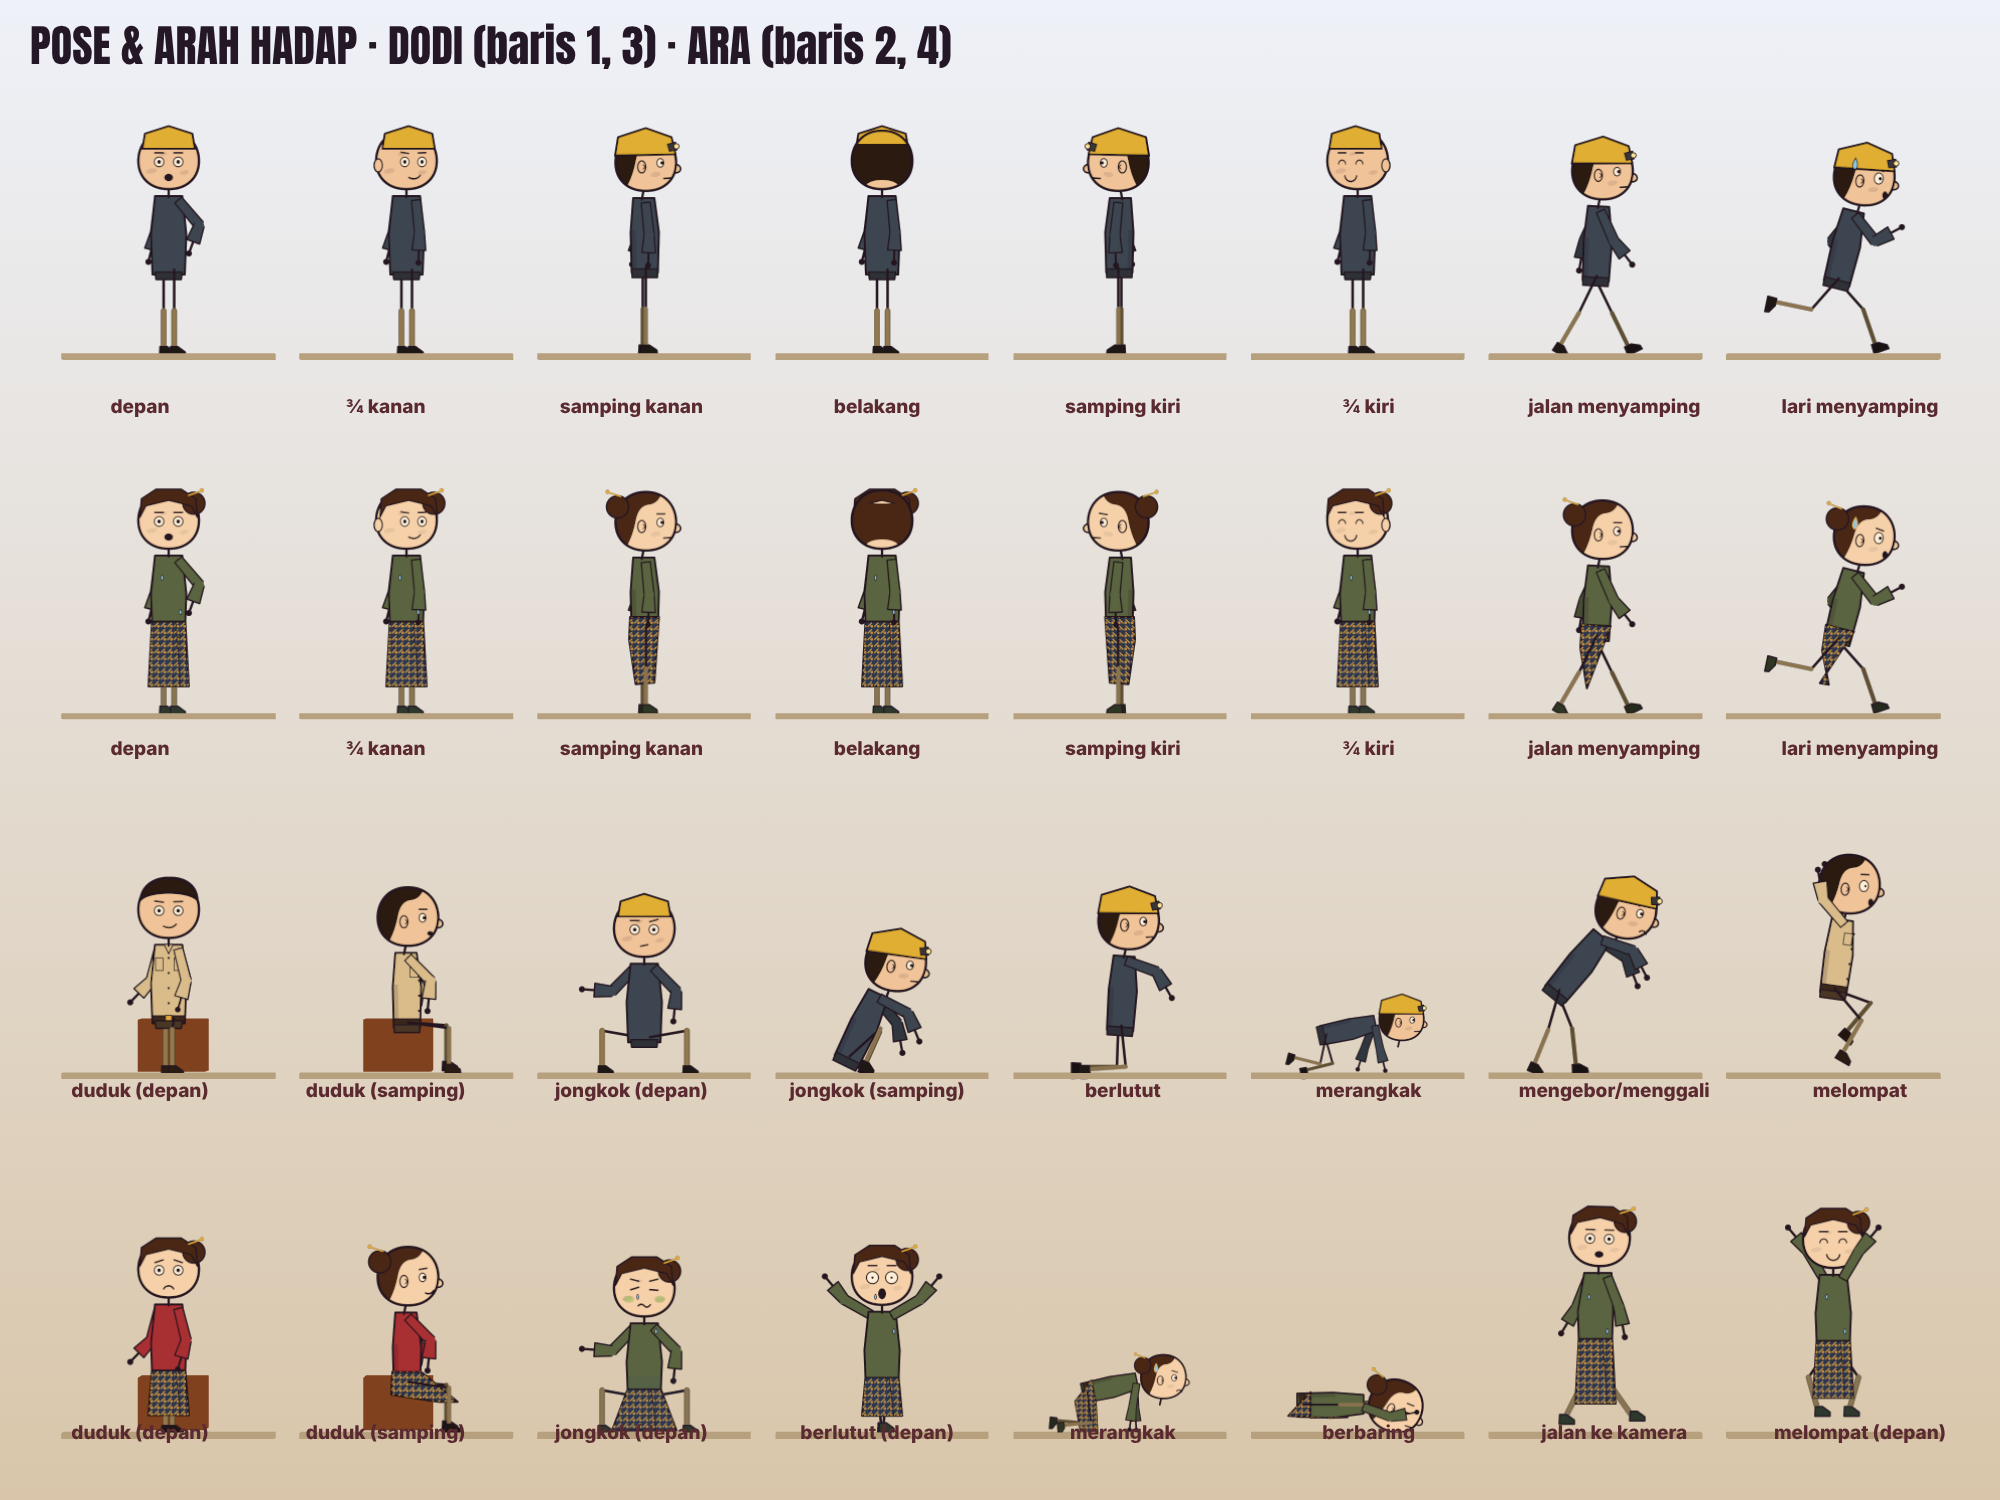
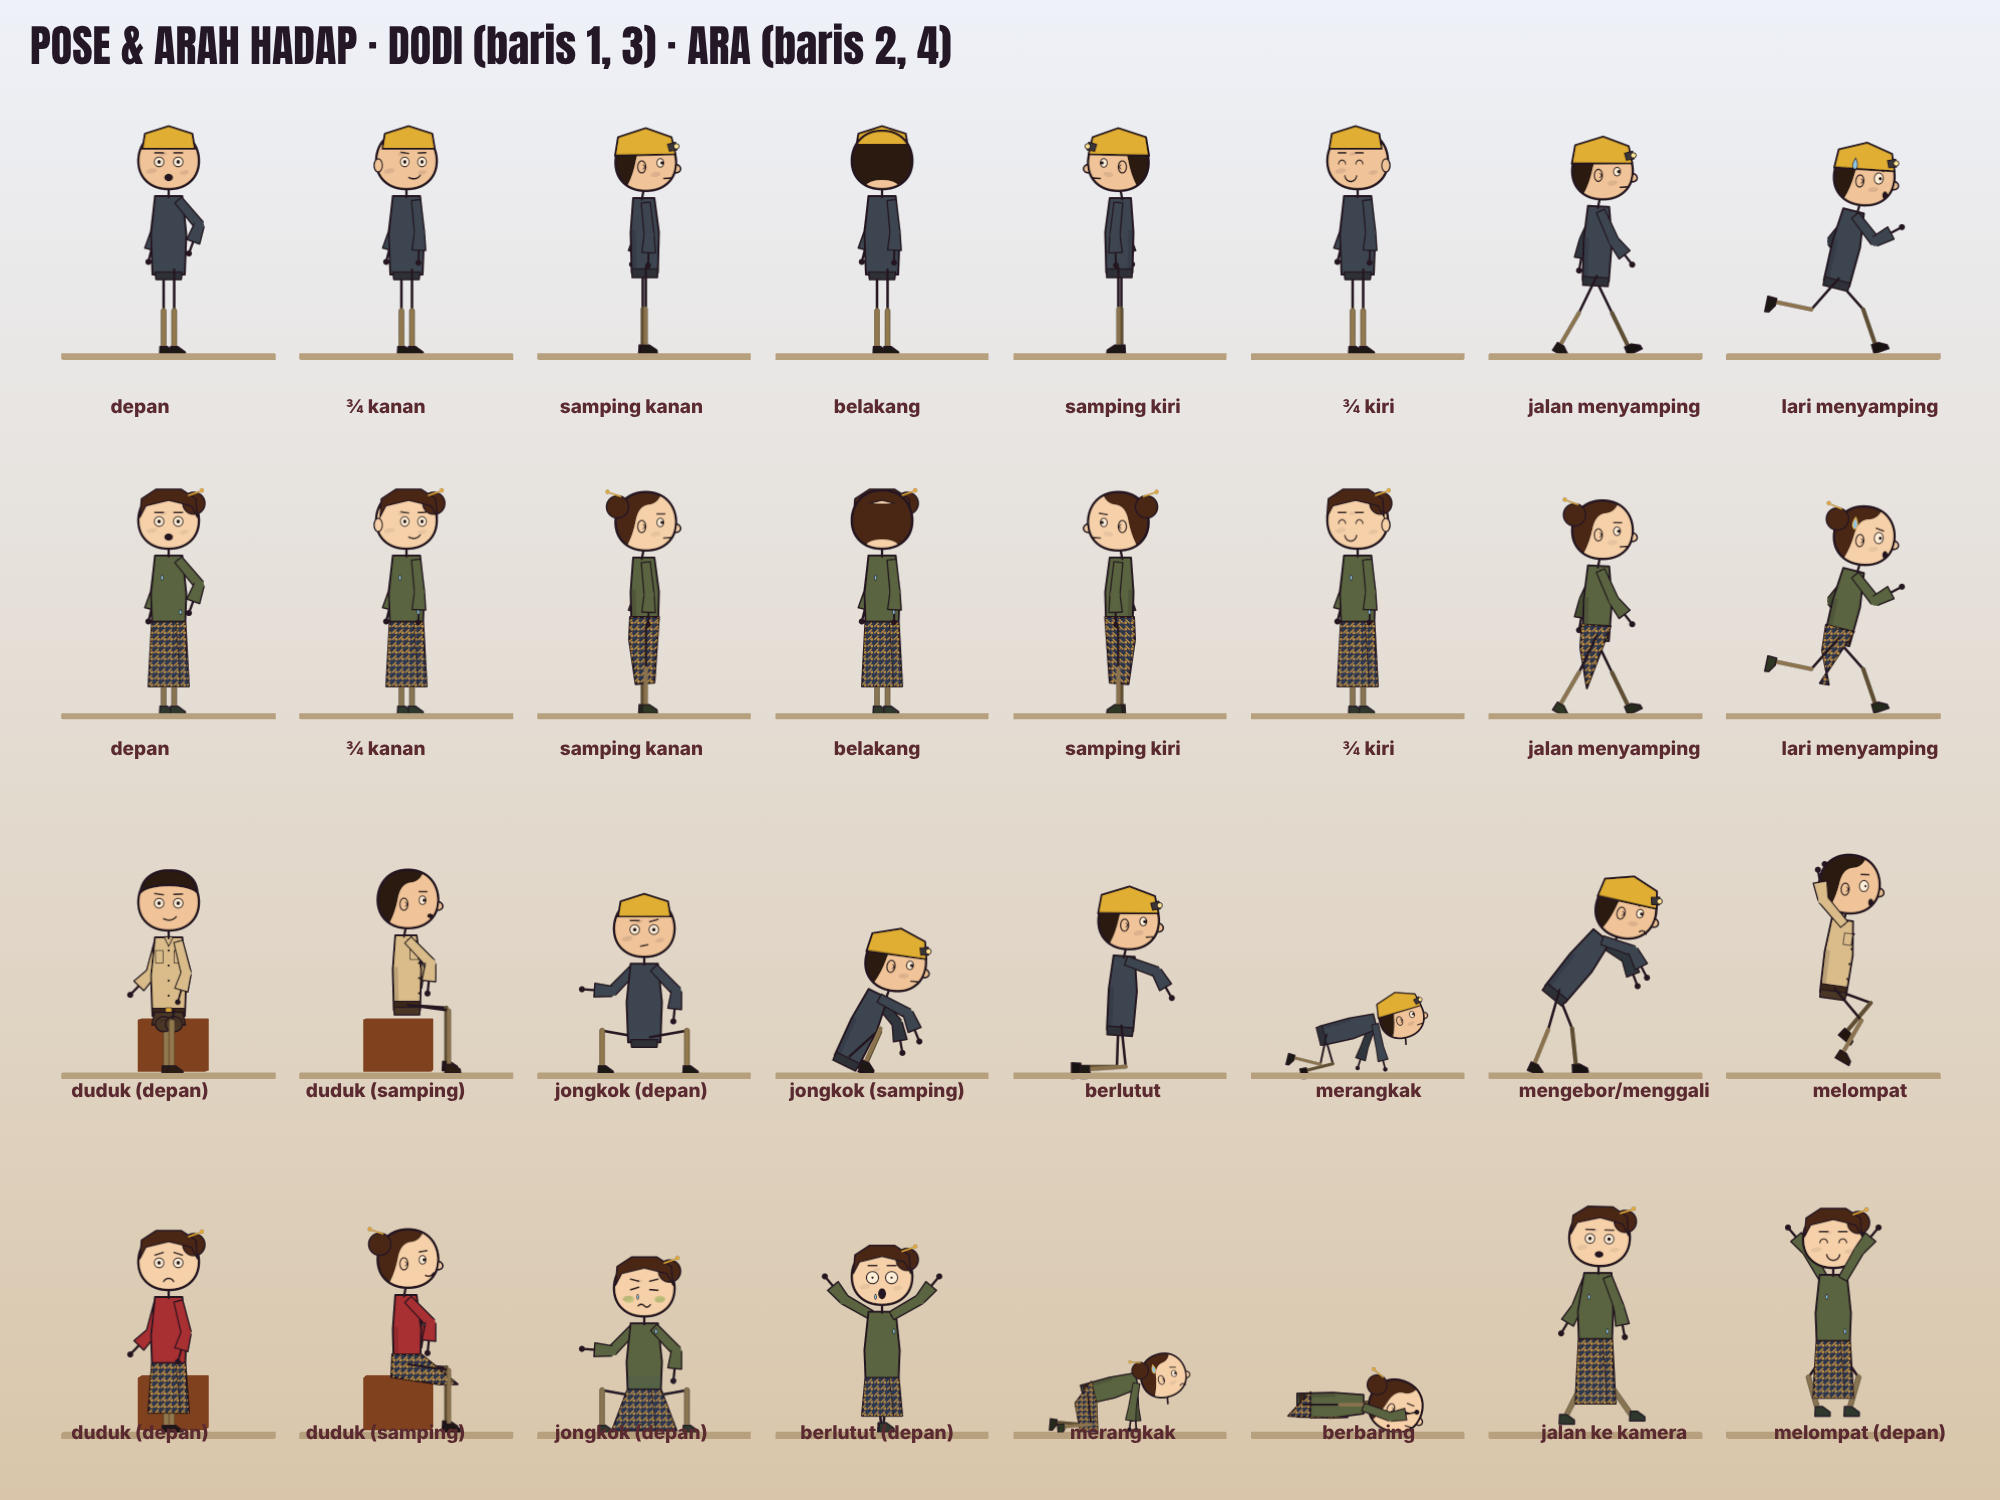
Perbaiki duduk (tinggi pinggul = dudukan, pangkuan+lutut tampak depan, kartu di depan kursi) dan merangkak (kepala tak tertutup tiang, menatap ke depan)
Claude-Session: https://claude.ai/code/session_01GCndATkCWSeS7Px9SzwdRB

diff --git a/src/PratinjauTerowongan.tsx b/src/PratinjauTerowongan.tsx
@@ -12,7 +12,7 @@ type Lat = keyof typeof OX;
 const NODE: Record<Lat, string> = { L1: "L1_Jalan", L2: "L2_Studio", L3: "L3_Got", L4: "L4_Penampang", L5: "L5_Brankas", L6: "L6_Hakim" };
 const bl = (x: number, y: number, z: number, ox = 0): Vec3 => [ox + x, z, -y];
 
-type Tok = { p: BeanParams; at: [number, number, number]; h?: number; flip?: boolean };
+type Tok = { p: BeanParams; at: [number, number, number]; h?: number; flip?: boolean; toCam?: number }; // toCam: geser kartu ke arah kamera (m), mis. agar duduk DI DEPAN sandaran/dudukan kursi
 type View = { judul: string; lat: Lat; cam: [number, number, number]; look: [number, number, number]; fov: number; roll?: number; preset: keyof typeof LIGHT_PRESETS; pts?: [number, number, number, number][]; tok: Tok[]; fg?: "bars" | "post" | "edge"; fgSide?: 1 | -1; interior?: boolean;
   gaya?: CineLook; shafts?: { a: [number, number, number]; b: [number, number, number]; r0?: number; r1?: number; col?: string; s?: number }[]; dust?: { c: [number, number, number]; sz: [number, number, number] } };
 const LUAR: CineLook = { exposure: 1.1, env: 0.6, ao: 2.5, aoRadius: 1.6, bloom: 0.45 };
@@ -31,20 +31,20 @@ const VIEWS: View[] = [
   { judul: "L2 · Studio foto (akrab)", lat: "L2", cam: [2.3, -2.6, 1.6], look: [-0.1, 1.8, 1.2], fov: 50, roll: -2, preset: "akrab", interior: true, fg: "edge",
     pts: [[1.2, 2.0, 1.25, 10], [0.2, 0.8, 2.3, 10]],
     gaya: DALAM, shafts: [{ a: [-3.5, 0.2, 1.9], b: [-1.2, 0.9, 0], r0: 0.55, r1: 1.0, s: 0.2 }], dust: { c: [-2.2, 0.5, 1.2], sz: [2.2, 2.4, 1.8] },
-    tok: [{ p: { ...FOTOGRAFER, ...poseSit(), expr: "smug", armR: [70, -50] }, at: [0.2, 1.2, 0] }, { p: { ...MIMI, expr: "shock", sweat: true, turn: 0.5 }, at: [-0.55, 0.1, 0] }] },
+    tok: [{ p: { ...FOTOGRAFER, ...poseSit(), expr: "smug", armR: [70, -50] }, at: [0.2, 1.2, 0], toCam: 0.3 }, { p: { ...MIMI, expr: "shock", sweat: true, turn: 0.5 }, at: [-0.55, 0.1, 0] }] },
   { judul: "L3 · Got (malam, lentera)", lat: "L3", cam: [0.5, -4.6, 1.4], look: [-0.1, 10, 0.9], fov: 50, roll: 3, preset: "malam", interior: true,
     pts: [[1.3, 1.6, 1.3, 14], [-1.4, 2, 2.5, 6], [-1.4, 8, 2.5, 6], [-1.4, 14, 2.5, 6], [0.9, 0, 4, 12]],
     gaya: MALAM, shafts: [{ a: [0.9, 0, 6.2], b: [0.9, 0, -0.4], r0: 0.38, r1: 0.75, col: "#e8f0ff", s: 0.16 }], dust: { c: [0.9, 0, 2.2], sz: [1.4, 4.0, 1.4] },
     tok: [{ p: { ...MIMI_GOT, ...beanWalk(0.2), back: true, hair: "#4a2a1a", prop: "torch", armR: [40, -70] }, at: [1.3, 2.4, 0] }, { p: { ...FOTOGRAFER_GALI, ...beanWalk(0.7), back: true, hair: "#2a1c14" }, at: [1.25, 6.0, 0] }] },
-  { judul: "L4 · Penampang: jalan → got → terowongan", lat: "L4", cam: [-5.0, -19.5, -1.6], look: [-5.0, 0, -2.6], fov: 46, preset: "siang",
+  { judul: "L4 · Penampang: jalan → got → terowongan", lat: "L4", cam: [-4.6, -19.5, -1.6], look: [-4.6, 0, -2.6], fov: 46, preset: "siang",
     pts: [[-8, -1.3, -4.6, 6], [-3.5, -1.2, -4.5, 5], [0, -1.2, -4.5, 5]],
     gaya: LUAR,
-    tok: [{ p: { ...FOTOGRAFER_GALI, ...poseCrawl(4), expr: "neutral" }, at: [-1.0, -1.3, -5.42], h: 1.9 }, { p: { ...MIMI_GOT, ...poseCrawl(12), expr: "worried", sweat: true }, at: [-4.0, -1.3, -5.42], h: 1.9, flip: true },
+    tok: [{ p: { ...FOTOGRAFER_GALI, ...poseCrawl(4), expr: "neutral" }, at: [-1.6, -1.88, -5.42], h: 1.9 }, { p: { ...MIMI_GOT, ...poseCrawl(12), expr: "worried", sweat: true }, at: [-4.3, -1.88, -5.42], h: 1.9, flip: true },
       { p: { ...KOMPLOTAN, ...poseCrouch(true), expr: "neutral", prop: "bucket", propHand: "R" }, at: [-7.4, -1.3, -5.42], h: 1.9 }, { p: { ...POLISI, ...poseWalkSide(6), expr: "neutral" }, at: [-10.5, -1.4, 0.24], h: 1.9 }] },
   { judul: "L4 · Penampang: terowongan → brankas", lat: "L4", cam: [4.8, -19.5, -1.6], look: [4.8, 0, -2.6], fov: 46, preset: "siang",
     pts: [[7.4, -1.2, -3.2, 8], [1.5, -1.2, -4.5, 5]],
     gaya: LUAR,
-    tok: [{ p: { ...FOTOGRAFER_GALI, ...poseKneel(), expr: "smug", armL: [-150, 0], armR: [150, 0] }, at: [6.4, -1.0, -5.66], h: 1.9 }, { p: { ...MIMI_GOT, expr: "shock", sweat: true, turn: -0.4 }, at: [8.4, -1.2, -5.66], h: 1.9 }, { p: { ...KOMPLOTAN, ...poseCrawl(9), expr: "neutral" }, at: [1.4, -1.3, -5.42], h: 1.9 }] },
+    tok: [{ p: { ...FOTOGRAFER_GALI, ...poseKneel(), expr: "smug", armL: [-150, 0], armR: [150, 0] }, at: [6.4, -1.0, -5.66], h: 1.9 }, { p: { ...MIMI_GOT, expr: "shock", sweat: true, turn: -0.4 }, at: [8.4, -1.2, -5.66], h: 1.9 }, { p: { ...KOMPLOTAN, ...poseCrawl(9), expr: "neutral" }, at: [1.4, -1.88, -5.42], h: 1.9 }] },
   { judul: "L5 · Brankas lebar", lat: "L5", cam: [2.4, -4.4, 1.9], look: [-0.6, 2.8, 1.3], fov: 56, roll: -3, preset: "tegang", interior: true, fg: "post", fgSide: 1,
     pts: [[-2.5, 0.5, 3.2, 12], [2.5, 0.5, 3.2, 12], [2.5, 0.9, 1.6, 10]],
     gaya: DALAM, shafts: [{ a: [2.5, 0.72, 1.66], b: [0.0, 4.0, 2.1], r0: 0.18, r1: 1.0, col: "#f4f4ff", s: 0.3 }], dust: { c: [1.2, 2.2, 1.9], sz: [2.6, 3.0, 2.0] },
@@ -56,7 +56,7 @@ const VIEWS: View[] = [
   { judul: "L6 · Kantor hakim (lantai 2)", lat: "L6", cam: [3.9, 0.7, FZ + 1.6], look: [-0.5, 5.0, FZ + 1.0], fov: 50, roll: -2, preset: "siang", interior: true,
     pts: [[0.5, 4.1, FZ + 2.7, 8]],
     gaya: DALAM, shafts: [{ a: [-1.8, 0.2, FZ + 1.7], b: [-0.2, 3.4, FZ], r0: 0.7, r1: 1.3, s: 0.2 }], dust: { c: [-1.0, 1.8, FZ + 1.0], sz: [2, 2.6, 1.8] },
-    tok: [{ p: { ...HAKIM, ...poseSit(), expr: "think", prop: "paper", armR: [40, -60] }, at: [0.8, 6.0, FZ] }, { p: { ...FOTOGRAFER, ...poseSit(), expr: "smug", turn: -0.5 }, at: [0.3, 3.5, FZ] }, { p: { ...POLISI, expr: "neutral", turn: 0.4 }, at: [-1.6, 4.2, FZ] }] },
+    tok: [{ p: { ...HAKIM, ...poseSit(), expr: "think", prop: "paper", armR: [40, -60] }, at: [0.8, 6.0, FZ], toCam: 0.25 }, { p: { ...FOTOGRAFER, ...poseSit(true), expr: "smug" }, at: [0.3, 3.5, FZ], toCam: 0.28, flip: true }, { p: { ...POLISI, expr: "neutral", turn: 0.4 }, at: [-1.6, 4.2, FZ] }] },
   { judul: "L6 · Luar: jendela → atap mobil → motor", lat: "L6", cam: [3.6, -12.5, 1.0], look: [0.6, 0, 3.6], fov: 56, roll: 4, preset: "siang",
     gaya: LUAR,
     tok: [{ p: { ...FOTOGRAFER, ...poseJump(), expr: "shock", sweat: true }, at: [-1.5, -2.2, 2.1], h: 1.9 }, { p: { ...KOMPLOTAN, ...poseSit(true), expr: "smug", armR: [80, -20] }, at: [3.3, -4.8, 0.5], h: 1.9 }] },
@@ -76,9 +76,15 @@ export const PratinjauTerowongan: React.FC = () => {
     <AbsoluteFill>
       <CineStage cam={cam} glb="models/terowongan.glb" visible={(n) => n.startsWith(NODE[v.lat]) || n.startsWith("Langit")} focus={bl(v.look[0], v.look[1], 0, ox)} preset={v.preset} pts={pts} interior={v.interior}
         look={lama || !v.gaya ? undefined : { ...v.gaya, dof: v.gaya.dof ? { ...v.gaya.dof, focus: bl(v.gaya.dof.focus[0], v.gaya.dof.focus[1], v.gaya.dof.focus[2], ox) } : undefined }}>
-        {v.tok.map((t, i) => (
-          <BeanCard key={i} position={bl(t.at[0], t.at[1], t.at[2], ox)} height={t.h ?? 1.9} params={t.p} flip={t.flip} {...card} />
-        ))}
+        {v.tok.map((t, i) => {
+          const dx = v.cam[0] - t.at[0];
+          const dy = v.cam[1] - t.at[1];
+          const L = Math.hypot(dx, dy) || 1;
+          const k = (t.toCam ?? 0) / L;
+          return (
+          <BeanCard key={i} position={bl(t.at[0] + dx * k, t.at[1] + dy * k, t.at[2], ox)} height={t.h ?? 1.9} params={t.p} flip={t.flip} {...card} />
+          );
+        })}
         {!lama && v.shafts?.map((q, i) => <LightShaft key={i} from={bl(q.a[0], q.a[1], q.a[2], ox)} to={bl(q.b[0], q.b[1], q.b[2], ox)} r0={q.r0} r1={q.r1} color={q.col} strength={q.s} />)}
         {!lama && v.dust && <Dust center={bl(v.dust.c[0], v.dust.c[1], v.dust.c[2], ox)} size={[v.dust.sz[0], v.dust.sz[2], v.dust.sz[1]]} frame={f} />}
         {v.fg && <Foreground cam={cam} kind={v.fg} side={v.fgSide ?? 1} color="#1a1a22" />}

diff --git a/src/three/objectsBean.tsx b/src/three/objectsBean.tsx
@@ -460,6 +460,26 @@ export const drawBean = (c: CanvasRenderingContext2D, p: BeanParams) => {
   }
   if (p.apron) poly(c, [[260 + tx * 0.8, shY + 60], [340 + tx * 0.8, shY + 60], [352, hipY + 130], [248, hipY + 130]], p.apron, INKC, 6);
   if (!p.coat && !p.pocong && !p.kunti) poly(c, [[246, hipY + 10], [354, hipY + 10], [350, hipY + 40], [250, hipY + 40]], pants, INKC, 6);
+  // duduk menghadap kamera: paha memendek ke arah penonton -> pangkuan + dua lutut bulat
+  if (p.thigh !== undefined && p.thigh < 90 && !p.robe && !p.pocong && !p.kunti) {
+    const lapCol = p.skirt ?? pants;
+    poly(c, [[244, hipY + 6], [356, hipY + 6], [366, hipY + 56], [234, hipY + 56]], lapCol, INKC, 6);
+    ([[280, lL], [322, lR]] as [number, [number, number]][]).forEach(([x, a2]) => {
+      const kn = tip(x, hipY, TH, a2[0]);
+      c.beginPath();
+      c.ellipse(kn[0] + (x < 300 ? -8 : 8), kn[1] + 8, 34, 30, 0, 0, Math.PI * 2);
+      c.fillStyle = lapCol;
+      c.fill();
+      c.lineWidth = 6;
+      c.strokeStyle = INKC;
+      c.stroke();
+      c.beginPath();
+      c.arc(kn[0] + (x < 300 ? -8 : 8), kn[1] + 4, 14, Math.PI * 1.1, Math.PI * 1.9);
+      c.lineWidth = 3;
+      c.strokeStyle = "rgba(20,10,30,0.35)";
+      c.stroke();
+    });
+  }
   // near leg
   if (!p.pocong && !p.kunti) {
     limb(c, 322, hipY, TH, SH, lR, 10);
@@ -1658,7 +1678,7 @@ const drawBeanSide = (c: CanvasRenderingContext2D, p: BeanParams) => {
 type PP = Partial<BeanParams>;
 /** duduk di kursi/kasur. side=true: profil (paha mendatar ke depan) */
 export const poseSit = (side = false): PP =>
-  side ? { view: "side", legL: [86, -86], legR: [82, -82], armL: [26, -40], armR: [44, -50] } : { thigh: 46, shin: 172, legL: [10, -10], legR: [-10, 10], armL: [-14, -30], armR: [14, -30] };
+  side ? { view: "side", shin: 240, legL: [86, -86], legR: [82, -82], armL: [26, -40], armR: [44, -50] } : { thigh: 46, shin: 202, legL: [12, -12], legR: [-12, 12], armL: [-14, -30], armR: [14, -30] };
 /** berlutut (lutut di lantai) */
 export const poseKneel = (side = false): PP => (side ? { view: "side", pitch: 4, legL: [-2, -88], legR: [6, -92] } : { thigh: 165, shin: 14, legL: [6, 0], legR: [-6, 0] });
 /** jongkok */
@@ -1667,7 +1687,7 @@ export const poseCrouch = (side = false): PP =>
 /** merangkak (profil), f = frame, speed = kecepatan siklus */
 export const poseCrawl = (f: number, speed = 1): PP => {
   const s = Math.sin(f * 0.25 * speed);
-  return { view: "side", pitch: 78, legL: [2 + 14 * s, -92], legR: [2 - 14 * s, -92], armL: [-4 - 16 * s, 2], armR: [-4 + 16 * s, 2], headTilt: -26 };
+  return { view: "side", pitch: 76, legL: [2 + 14 * s, -92], legR: [2 - 14 * s, -92], armL: [-4 - 16 * s, 2], armR: [-4 + 16 * s, 2], headTilt: -42 };
 };
 /** jalan menyamping (profil) — tokoh harus benar-benar berpindah tempat (linePath) */
 export const poseWalkSide = (f: number, speed = 1, amp = 1): PP => {
